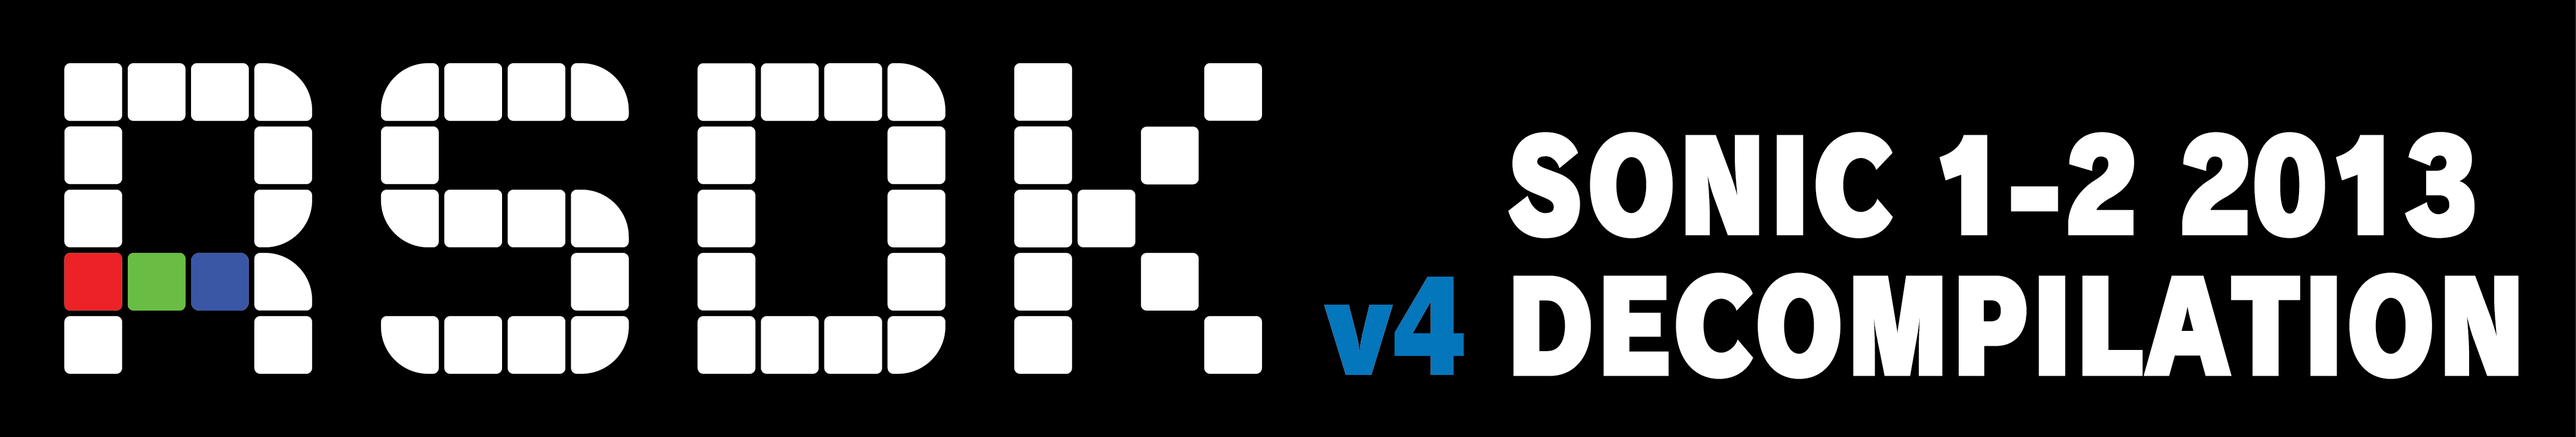
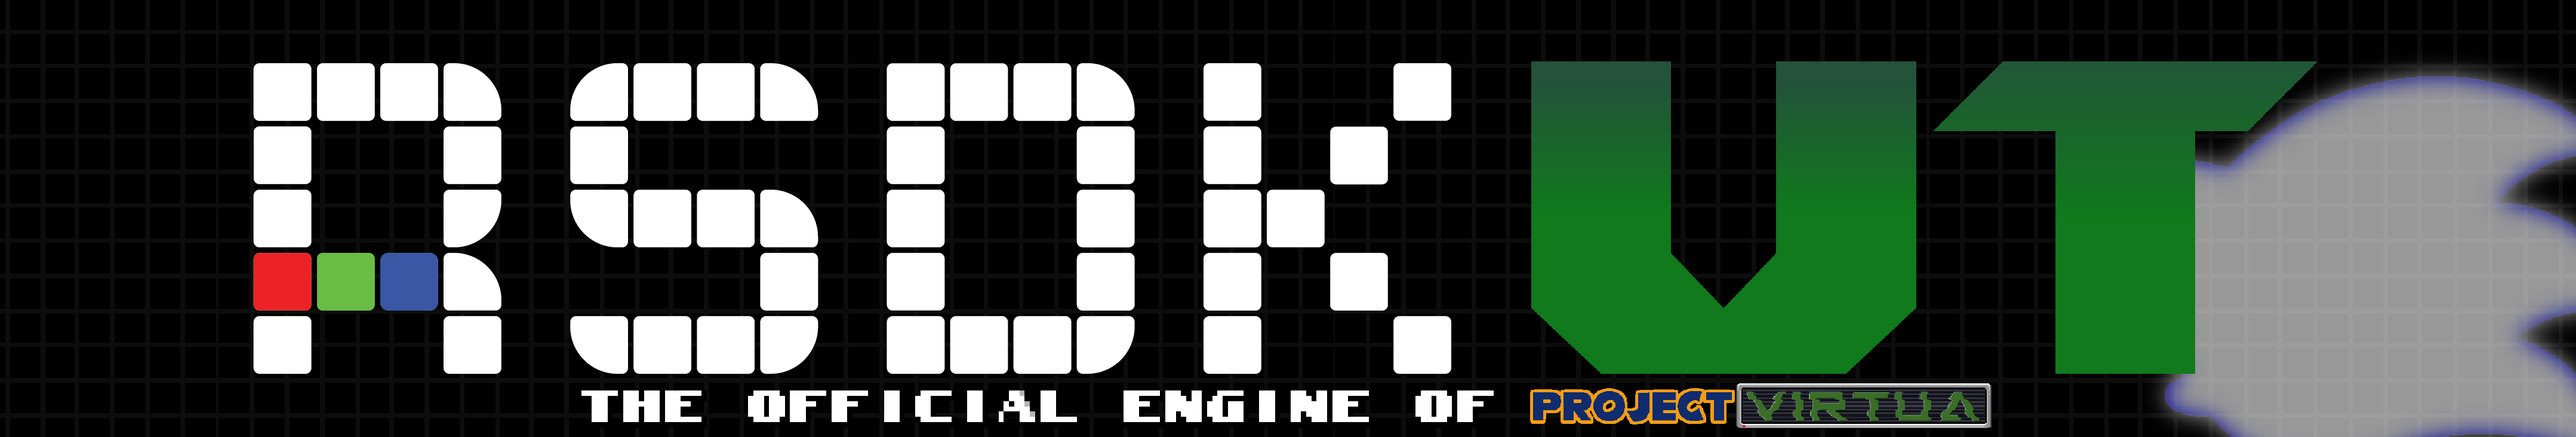
Restarting the stuff!
Things weren't going well with the previous fork so why not give another try but with more calm and intelligence?

diff --git a/README.md b/README.md
@@ -1,9 +1,9 @@
 ![](header.png?raw=true)
 
-A complete decompilation of Retro Engine v4 and the menus from Sonic 1 and 2 (2013).
+A complete decompilation of Retro Engine v4 (Sonic 1 And 2) Modded For Fan games and PV as a Whole.
 
 # **SUPPORT THE OFFICIAL RELEASE OF SONIC 1 & 2**
-+ Without assets from the official releases, this decompilation will not run.
++ Without These Ports RSDK-VT Couldn't Be a project.
 
 + You can get official releases of Sonic 1 & Sonic 2 from:
   * Windows
@@ -27,9 +27,7 @@ If you want to transfer your save(s) from the official mobile version(s), the **
 # Additional Tweaks
 * Added the built in script compiler from RSDKv5U.
 * Added a built in mod loader and API, allowing to easily create and play mods with features such as save file redirection, custom achievements and XML GameConfig data.
-* Custom menu and networking system for Sonic 2 multiplayer, allowing anyone to host and join servers and play 2P VS.
-  * Servers may be unreliable; this feature is more or less a proof of concept.
-* Egg Gauntlet Zone is playable in the Time Attack menu in Sonic 2, if you're using a version of the game that includes it.
+* Added The Video Playback Feature From V3 and V5.
 * There is now a `settings.ini` file that the game uses to load all settings, similar to Sonic Mania.
 * The dev menu can now be accessed from anywhere by pressing the `ESC` key if enabled in the config.
 * The `F12` pause, `F11` step over & fast forward debug features from Sonic Mania have all been ported and are enabled if `devMenu` is enabled in the config.
@@ -52,8 +50,8 @@ If you want to transfer your save(s) from the official mobile version(s), the **
 * Run the MINGW64 prompt (from the windows Start Menu/MSYS2 64-bit/MSYS2 MinGW 64-bit), when the program starts enter `pacman -Syuu` in the prompt and hit Enter.
 * Press `Y` when it asks if you want to update packages. If it asks you to close the prompt, do so, then restart it and run the same command again. This updates the packages to their latest versions.
 * Install the dependencies with the following command: `pacman -S pkg-config make git mingw-w64-i686-gcc mingw-w64-x86_64-gcc mingw-w64-x86_64-SDL2 mingw-w64-x86_64-libogg mingw-w64-x86_64-libvorbis mingw-w64-x86_64-glew`
-* Clone the repo with the following command: `git clone --recursive https://github.com/Rubberduckycooly/Sonic-1-2-2013-Decompilation.git`
-* Go into the repo you just cloned with `cd Sonic-1-2-2013-Decompilation`.
+* Clone the repo with the following command: `git clone --recursive https://github.com/Sonic-Geared/RSDK-VT.git`
+* Go into the repo you just cloned with `cd RSDK-VT`.
 * Run `make -f Makefile.msys2 CXX=x86_64-w64-mingw32-g++ CXXFLAGS=-static -j4`.
   * -j switch is optional, but will make building faster by running it parallel on multiple cores (8 cores would be -j9).
 
@@ -69,32 +67,24 @@ If you want to transfer your save(s) from the official mobile version(s), the **
     * If you're using Debian, add `libgbm-dev` and `libdrm-dev`.
   * Fedora Linux: `sudo dnf install g++ SDL2-devel libvorbis-devel libogg-devel glew-devel`
   * Arch Linux: `sudo pacman -S base-devel git sdl2 libvorbis libogg glew`
-* Clone the repo and its other dependencies with the following command: `git clone --recursive https://github.com/Rubberduckycooly/Sonic-1-2-2013-Decompilation.git`
-* Go into the repo you just cloned with `cd Sonic-1-2-2013-Decompilation`.
+* Clone the repo and its other dependencies with the following command: `git clone --recursive [https://github.com/Sonic-Geared/RSDK-VT.git`
+* Go into the repo you just cloned with `cd RSDK-VT`.
 * Run `make -j5`.
     * If your distro is using gcc 8.x.x, then add the argument `LIBS=-lstdc++fs`.
     * -j switch is optional, but will make building faster by running it parallel on multiple cores (8 cores would be -j9).
 
 ## Mac
 * Clone the repo, follow the instructions in the [dependencies readme for Mac](./dependencies/mac/dependencies.txt) to setup dependencies, then build via the Xcode project.
-* A Mac build of v1.3.0 by [Sappharad](https://github.com/Sappharad) can be found [here](https://github.com/Sappharad/Sonic-1-2-2013-Decompilation/releases/tag/1.3.0mac).
+* A Mac build of v1.3.0 (v4 Not VT) by [Sappharad](https://github.com/Sappharad) can be found [here](https://github.com/Sappharad/Sonic-1-2-2013-Decompilation/releases/tag/1.3.0mac).
 
-## Android
+## Android (W.I.P)
 * Clone the repo, then follow the instructions in the [dependencies readme for Android](./dependencies/android/dependencies.txt).
 * Ensure the symbolic links in `android/app/jni` are correct. If not, fix them with the following on Windows:
   * `mklink /D src ..\..\..`
   * `mklink /D SDL ..\..\..\dependencies\android\SDL`
 * Open `android/` in Android Studio, install the NDK and everything else that it asks for, and build.
 
-## Unofficial Branches
-Follow the installation instructions in the readme of each branch.
-* For the **PlayStation Vita**, go to [Xeeynamo's fork](https://github.com/xeeynamo/Sonic-1-2-2013-Decompilation).
-* For the **Nintendo Switch**, go to [heyjoeway's fork](https://github.com/heyjoeway/Sonic-1-2-2013-Decompilation).
-* For the **Nintendo 3DS**, go to [JeffRuLz's fork](https://github.com/JeffRuLz/Sonic-1-2-2013-Decompilation).
-  * A New Nintendo 3DS is required for the games to run smoothly.
-* To play it on the web using **Wasm**, go to [mattConn's fork](https://github.com/mattConn/Sonic-Decompilation-WASM).
-
-Because these branches are unofficial, we can't provide support for them and they may not be up-to-date.
+this Fork is unofficial, RubberDuckyCooly or Anyone Involved With the RSDK Decomp can't provide support for this Build.
 
 ## Other Platforms
 Currently the only supported platforms are the ones listed above, however the backend uses libogg, libvorbis & SDL2 to power it (as well as tinyxml2 for the mod API and asio for networking), so the codebase is very multiplatform.
@@ -108,10 +98,13 @@ Note that the C++ server found in the `Server` folder has been deprecated and no
 # FAQ
 You can find the FAQ [here](./FAQ.md).
 
-# Special Thanks
+# Special Thanks (RSDKv4)
 * [st×tic](https://github.com/stxticOVFL) for helping me fix bugs, tweaking up my sometimes sloppy code and generally being really helpful and fun to work with on this project.
 * [The Weigman](https://github.com/TheWeigman) for creating the header you see up here along with similar assets.
 * Everyone in the [Retro Engine Modding Server](https://dc.railgun.works/retroengine) for being supportive of me and for giving me a place to show off these things that I've found.
-
+# Special Thanks (RSDK-VT)
+* [Geared](https://github.com/Sonic-Geared) for helping Us Set this Github Up and Help with the Project.
+* [RubberDuckyCooly](https://github.com/Rubberduckycooly) For the original [Sonic 1/2 Decomp Project](https://github.com/Rubberduckycooly/Sonic-1-2-2013-Decompilation)
 # Contact:
-Join the [Retro Engine Modding Discord Server](https://dc.railgun.works/retroengine) for any extra questions you may need to know about the decompilation or modding it.
+Join the [Retro Engine Modding Discord Server](https://dc.railgun.works/retroengine) for any extra questions you may need to know about the og decompilation or modding.
+Join the [Mobian Republic](https://discord.gg/Krnmh4NGdn) For updates on The game this was made for or just to chat with people.
